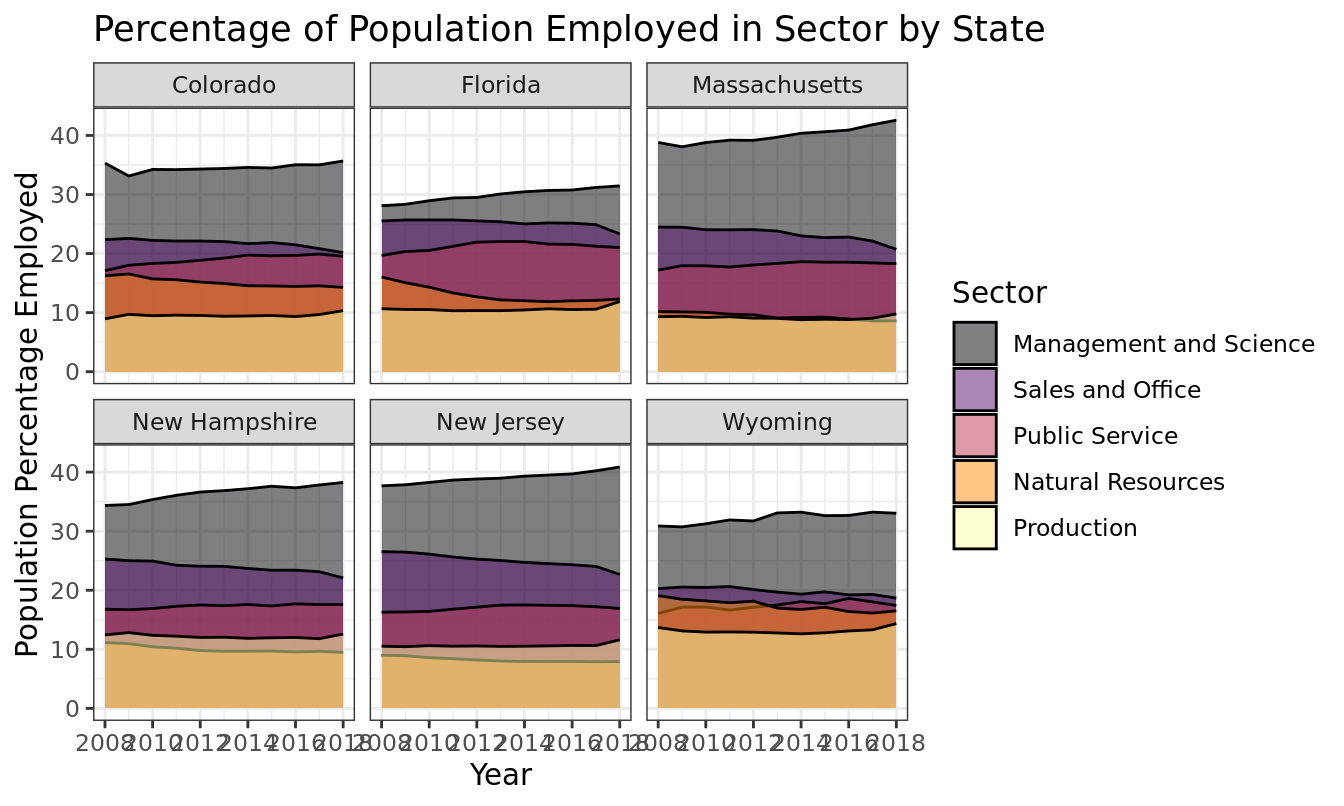
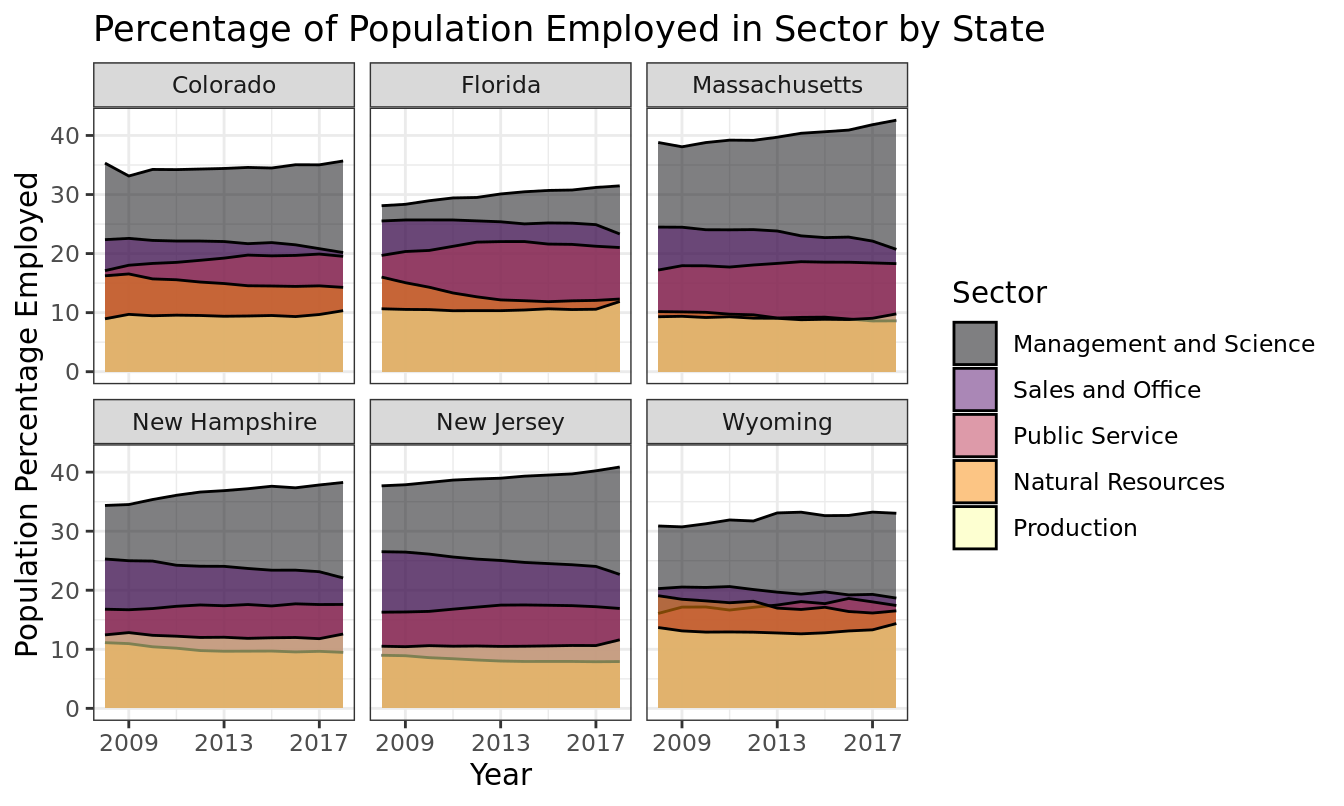
Final fixes

Changed region(s): [[0.0625, 0.8995, 0.6875, 0.9305]]

diff --git a/docs/index.html b/docs/index.html
@@ -1164,7 +1164,7 @@ override using the `.groups` argument.</code></pre>
 <span id="cb20-14"><a href="#cb20-14" aria-hidden="true" tabindex="-1"></a>  <span class="fu">ggplot</span>(<span class="fu">aes</span>(<span class="at">x =</span> study_year, <span class="at">y =</span> mean_percentage, <span class="at">fill =</span> sector_type)) <span class="sc">+</span> </span>
 <span id="cb20-15"><a href="#cb20-15" aria-hidden="true" tabindex="-1"></a>  <span class="fu">geom_density</span>(<span class="at">stat =</span> <span class="st">"identity"</span>, <span class="at">alpha =</span> <span class="fl">0.5</span>) <span class="sc">+</span></span>
 <span id="cb20-16"><a href="#cb20-16" aria-hidden="true" tabindex="-1"></a>  <span class="fu">facet_wrap</span>(<span class="sc">~</span> state_name) <span class="sc">+</span></span>
-<span id="cb20-17"><a href="#cb20-17" aria-hidden="true" tabindex="-1"></a>  <span class="fu">scale_x_continuous</span>(<span class="at">breaks =</span> <span class="fu">c</span>(<span class="dv">2008</span>, <span class="dv">2010</span>, <span class="dv">2012</span>, <span class="dv">2014</span>, <span class="dv">2016</span>, <span class="dv">2018</span>)) <span class="sc">+</span></span>
+<span id="cb20-17"><a href="#cb20-17" aria-hidden="true" tabindex="-1"></a>  <span class="fu">scale_x_continuous</span>(<span class="at">breaks =</span> <span class="fu">c</span>(<span class="dv">2009</span>, <span class="dv">2013</span>, <span class="dv">2017</span>)) <span class="sc">+</span></span>
 <span id="cb20-18"><a href="#cb20-18" aria-hidden="true" tabindex="-1"></a>  <span class="fu">labs</span>(</span>
 <span id="cb20-19"><a href="#cb20-19" aria-hidden="true" tabindex="-1"></a>    <span class="at">x =</span> <span class="st">"Year"</span>,</span>
 <span id="cb20-20"><a href="#cb20-20" aria-hidden="true" tabindex="-1"></a>    <span class="at">y =</span> <span class="st">"Population Percentage Employed"</span>,</span>
@@ -1189,15 +1189,15 @@ override using the `.groups` argument.</code></pre>
 <p><strong>Goals:</strong></p>
 <p>Particularly, the goals of our project are to 1) illustrate the relative average 4th-grade reading level in each state; 2) provide a side-by-side comparison of how much funding each state is allocating towards students relative to each other; 3) utilize predictor pruning methods to construct a linear regression model with community-level factors that are associated with the average 4th-grade reading level across the county; and 4) determine the distribution of adults across various occupational fields in states with the best 4th-grade reading levels. Each goal corresponds to a visualization or regression model.&nbsp;</p>
 <p><strong>Data Overview:</strong></p>
-<p>To achieve objectives, we integrated data from five datasets. The first dataset was <code>scores</code>, which had 6 variables and 54 observations. The variables of interest were <code>state_name</code> and <code>reading_level</code>, the average 4th-grade reading level in each given state in 2022 (state-wide achievement level). The second was <code>childcare_costs</code>, which had 61 variables and 34567 observations. <code>childcare_costs</code> offered all of our data on county-level socioeconomic factors, and we mutated various variables to be potential predictors in our linear regression model for goal #3. The <code>counties</code> dataset had 4 variables and 3144 observations and was used to merge the country-based data in <code>childcare_costs</code> with the state-based data in <code>scores</code>. The <code>expenditures</code> dataset had 6 variables and 23460 observations. From this dataset, we were interested in examining <code>inf_adj_perchild</code>, total government spending on educational resources per child adjusted for inflation.&nbsp;Our last dataset, <code>us_states</code>, there are 6 variables and 15537 observations. This dataset provides the latitude and longitude coordinates in order to create the choropleth map base of the United States for visualizations #1 and #2.</p>
+<p>To achieve objectives, we integrated data from five datasets. The first dataset was <code>scores</code>, which had 6 variables and 54 observations. The variables of interest were <code>state_name</code> and <code>reading_level</code>, the average 4th-grade reading level in each given state in 2022 (state-wide achievement level). The second was <code>childcare_costs</code>, which had 61 variables and 34567 observations. <code>childcare_costs</code> offered all of our data on county-level socioeconomic factors, and we mutated various variables to be potential predictors in our linear regression model for goal #3. The <code>counties</code> dataset had 4 variables and 3144 observations and was used to merge the country-based data in <code>childcare_costs</code> with the state-based data in <code>scores</code>. The <code>expenditures</code> dataset had 6 variables and 23460 observations. From this dataset, we were interested in examining <code>inf_adj_perchild</code>, total government spending on educational resources per child adjusted for inflation.&nbsp;Our last dataset, <code>us_states</code>, there are 6 variables and 15537 observations. This dataset provides the latitudinal and longitudinal coordinates in order to create the choropleth map base of the United States for visualizations #1 and #2.</p>
 <p>The <code>scores</code> data are from 2022, while the <code>childcare_costs</code> and <code>expenditures</code> data are from 2018 and 2016, respectively. We thought this was acceptable in the context because it is realistic for there to be a years-long delay between changes in community funding and resources and subsequent academic improvements.</p>
 <p><strong>Findings:</strong></p>
 <p>Visualization #1 achieves goal #1 through a choropleth map, which is a map that leverages differences in shading to denote the average value of a variable in distinct geographic regions. We primarily employ the <code>geom_polygon()</code> tool to do so. The map illustrates that three states, Florida, Wyoming, and Massachusetts, stood out among the rest for having superior demonstrated 4th-grade reading levels. To zoom out from this superlative factoid, it is also the case that smaller northeastern and a few midwestern states have higher reading levels. It may seem arbitrary that these three states scored above the rest in terms of reading levels, especially considering the diverse areas of the United States in which each of them is situated. However, consideration of principles learned in the KISS class, Critical Race Theory in Education, proves otherwise. Research into the breakdown of Florida’s 4th grade reading levels reveals one interesting notion: White students demonstrated consistently high reading levels, second only to Asian students (who make up a significant minority of the elementary population), whereas their other non-White counterparts scored lower, on average (“The Nation’s…”). Considering prior knowledge, the makeup of smaller northeastern states like Massachusetts or New Jersey and midwestern states like Wyoming or Colorado is also noteworthily White. Discussions in CRT have revealed the unfortunate truth that America’s education systems are upheld to be conducive to White students. According to the class-provided article “School Norms and Reforms, Critical Race Theory, and the Fairytale of Equitable Education,” white students excel on aptitude assessments like the SAT or IQ tests because they have been designed for them to do so. So, while there may be noteworthy additional circumstances that foretell academic success, as we begin analyzing predictors of achievement, it is important to first recognize race’s interplay with soon-to-be considered factors in propelling a certain demographic forward within American school systems.&nbsp;</p>
 <p>Visualization #2 fulfills goal #2 through another choropleth map. This time, each state is shaded based on its <code>inf_adj_perchild</code>. A side-by-side comparison of visualization #1 and #2 allows for preliminary conclusions on the impact of public investments into youth education and enables us to start identifying states that may have particularly cost-effective educational systems. New York, New Jersey, and Wyoming come forward as the states with the highest government spending on students. This has broad ties to visualization #1 where New Jersey and Wyoming were both in the top 5 of states in terms of <code>reading_level</code> (Notably, New York was ranked as state #37 in terms of <code>reading_level</code>, raising questions worth exploring in future research about how New York is investing in public education.</p>
-<p>Our <code>final_model</code> addresses goal #3. A foundational literature review implicates several social, psychological, and economic in the development of reading skills in elementary schoolers. Socioeconomic status has been consistently shown to influence academic success, specifically due to differing access to books, supportive services, and qualified teachers as well as due to exposure to adversity and parental distress. The structural connections between race, socioecnomic status, and long-term outcomes makes racial minority status another potential variable of interest. Along with socioeconomic status, parents’ capacity to be highly engaged and sincerely warm affects psychological health, which often underpins academic trajectories. Thus, we seek to examine whether having both, one, or no working parents affects reading skills. Finally, it is necessary to explore the role of access to both family-based and center-based child care given the proven significance of high-quality child care. We cross-reference these findings with our data to create a number of variables of interest. We constructed <code>family_poverty</code>, which was renamed from <code>pr_f</code> and gives the poverty rate in the given county and <code>minority_racial_status</code>, which is the percent of the county population that identifies as one minority racial identity or as biracial. We also developed <code>percentage_single_mother</code>, which is the number of households with single mothers, divided by the total number of <code>households</code>. We designed another variable for the ratio of households with one working parent to two working parents: <code>ratio_of_one_to_both</code>. By simply renaming, we created <code>average_center_child_care</code> and <code>average_family_child_care</code>, the average cost of center-based and family-based child care, respectively, in the given county. We first engineered a maximum additive regression model with all the possible predictors, and then, we manually performed forward selection to determine what combination of the predictors yielded a model with the lowest adjusted R2. The models were sorted based on adjusted-R2. We created a data frame with all of the models and their corresponding adjusted R2 values. We then filtered for the model with the maximum R2. We find that <code>regression_model_61</code> has the best fit and it includes the predictors <code>family_poverty</code> , <code>ratio_of_one_to_both</code>, <code>average_center_child_care</code>, <code>average_family_child_care</code>, and <code>one_parent_households</code>.</p>
-<p>Visualization #3 is rooted in goal #4. We have always been committed to creating a visualization that zooms in on states with the highest values in <code>reading_level</code>. In our literature review to determine potential community-level predictors for <code>reading_level</code>, we found that both socioeconomic status and parental attitudes contribute to <code>reading_level</code>, both of which may be reflect in parents’ occupations. Thus, we opted to explore the average distribution of occupational fields of adults across all the counties in Massachusetts, New Jersey, New Hampshire, and Wyoming, the states with the highest <code>reading_level</code> scores with inputted data for occupational percentages in <code>childcare_costs</code> in 2018— the most recent year of data collection. The original dataset included each occupational field as a separate variable and gave the percentage of adults who worked in that field for each county. We then pivoted the data so that each there was one variable for the names of the occupational fields, <code>sector_type</code>, and the associated percentage in each occupational field, <code>sector_percentage</code>. This enabled us to construct a bar graph that depicted the average percentage of the population that worked in each sector in each state. We find that in all four states of highest <code>reading_level</code>, the highest percentage of the population was employed in “Management and Science.” To go about explaining the distribution represented in this visualization, we drew upon the skill developed in the Rethinking Schools class: self-reflection. As we each examined the industries present in our hometowns, it becomes clear why there is a correlation between higher achievement and a high management and science makeup. In Noah’s hometown of Fairfax, Virginia, there is a large presence of government consulting firms and technology startups. He recalls how the confluence of these industries catalyzed his school district to become among the largest in the nation and found a magnet STEM school, Thomas Jefferson HS, now ranked the fifth best high school in the nation. Another testament to this notion is how Anushka, being from Westchester, New York, grew up surrounded by leaders of finance, medicine, and technology companies–no doubt making her school district (the 13th best in the country) what it is. Reflecting on some of our personal upbringings ultimately speaks to the data-driven fact that high achievement is associated with specific industry, making this visualization both personally and mathematically impactful.</p>
+<p>Our <code>final_model</code> addresses goal #3. A foundational literature review implicates several social, psychological, and economic in the development of reading skills in elementary schoolers. Socioeconomic status has been consistently shown to influence academic success, specifically due to differing access to books, supportive services, and qualified teachers as well as due to exposure to adversity and parental distress. The structural connections between race, socioecnomic status, and long-term outcomes makes racial minority status another potential variable of interest. Along with socioeconomic status, parents’ capacity to be highly engaged and sincerely warm affects psychological health, which often underpins academic trajectories. Thus, we seek to examine whether having both, one, or no working parents affects reading skills. Finally, it is necessary to explore the role of access to both family-based and center-based child care given the proven significance of high-quality child care. We cross-reference these findings with our data to create a number of variables of interest. We constructed <code>family_poverty</code>, which was renamed from <code>pr_f</code> and gives the poverty rate in the given county and <code>minority_racial_status</code>, which is the percent of the county population that identifies as one minority racial identity or as biracial. We also developed <code>percentage_single_mother</code>, which is the number of households with single mothers, divided by the total number of <code>households</code>. We designed another variable for the ratio of households with one working parent to two working parents: <code>ratio_of_one_to_both</code>. By simply renaming, we created <code>average_center_child_care</code> and <code>average_family_child_care</code>, the average cost of center-based and family-based child care, respectively, in the given county. We first engineered a maximum additive regression model with all the possible predictors, and then, we manually performed forward selection to determine what combination of the predictors yielded a model with the lowest adjusted R2. The models were sorted based on adjusted-R2. We created a data frame with all of the models and their corresponding adjusted R2 values. We then filtered for the model with the maximum R2. We find that <code>regression_model_61</code> has the best fit and it includes the predictors <code>family_poverty</code> , <code>ratio_of_one_to_both</code>, <code>average_center_child_care</code>, <code>average_family_child_care</code>, and <code>one_parent_households</code>. Still, the adjusted-R2 is only 0.06.</p>
+<p>Visualization #3 is rooted in goal #4. We have always been committed to creating a visualization that zooms in on states with the highest values in <code>reading_level</code>. In our literature review to determine potential community-level predictors for <code>reading_level</code>, we found that both socioeconomic status and parental attitudes contribute to <code>reading_level</code>, both of which may be reflect in parents’ occupations. Thus, we opted to explore the average distribution of occupational fields of adults across all the counties in Massachusetts, New Jersey, New Hampshire, Colorado, Florida, and Wyoming, the states with the highest <code>reading_level</code> scores with inputted data for occupational percentages in <code>childcare_costs</code> in 2018— the most recent year of data collection. The original dataset included each occupational field as a separate variable and gave the percentage of adults who worked in that field for each county. We then pivoted the data so that each there was one variable for the names of the occupational fields, <code>sector_type</code>, and the associated percentage in each occupational field, <code>sector_percentage</code>. This enabled us to construct a bar graph that depicted the average percentage of the population that worked in each sector in each state. We find that in all six states of highest <code>reading_level</code>, the highest percentage of the population was employed in “Management and Science.” To go about explaining the distribution represented in this visualization, we drew upon the skill developed in the Rethinking Schools class: self-reflection. As we each examined the industries present in our hometowns, it becomes clear why there is a correlation between higher achievement and a high management and science makeup. In Noah’s hometown of Fairfax, Virginia, there is a large presence of government consulting firms and technology startups. He recalls how the confluence of these industries catalyzed his school district to become among the largest in the nation and found a magnet STEM school, Thomas Jefferson HS, now ranked the fifth best high school in the nation. Another testament to this notion is how Anushka, being from Westchester, New York, grew up surrounded by leaders of finance, medicine, and technology companies–no doubt making her school district (the 13th best in the country) what it is. Reflecting on some of our personal upbringings ultimately speaks to the data-driven fact that high achievement is associated with specific industry, making this visualization both personally and mathematically impactful.</p>
 <p><strong>Conclusion:</strong><br>
-Overall, our conclusions illuminate opportunities for political and programmatic interventions. Visualization #1 identifies the states with the highest scores in 4th-grade reading to be Massachusetts, Florida, and Wyoming. We subsequently determine that White students are overrepresented in these best-practice states. There is then a need to ensure that school’s do not exclusively appeal to the intellectual and social tendencies associated with Whiteness. Future research should be conducted to test the efficacy and feasibility of nascent frameworks for multicultural education. Visualization #2 finds that New Jersey, New York, and Wyoming have the highest expenditures on students. More specific work needs to be done on the associations between <code>inf_adj_perchild</code> and <code>reading_level</code>. Visualization #3 finds that <code>family_poverty</code> , <code>ratio_of_one_to_both</code>, <code>average_center_child_care</code>, <code>average_family_child_care</code>, and <code>one_parent_households</code> all play a significant role in children’s educational experiences. Immediately, this analysis supports the continued development of public policies that encourage maternity and/or paternity leave as well as fund subsidized childcare programs. Furthermore, we affirm an already robust understanding of the poverty cycle; low educational achievement associated with high poverty levels will make it tough for children from low-income neighborhoods to reach economic prosperity. Visualization #3 suggests that states with high <code>reading_level</code> also have a high percentage of adults who work in “Management and Science,” fostering ideas about novel programs that create government-sponsored vocational training for adults from all communities to enter competitive fields.</p>
+Overall, our conclusions illuminate opportunities for political and programmatic interventions. Visualization #1 identifies the states with the highest scores in 4th-grade reading to be Massachusetts, Florida, and Wyoming. We subsequently determine that White students are overrepresented in these best-practice states. There is then a need to ensure that school’s do not exclusively appeal to the intellectual and social tendencies associated with Whiteness. Future research should be conducted to test the efficacy and feasibility of nascent frameworks for multicultural education. Visualization #2 finds that New Jersey, New York, and Wyoming have the highest expenditures on students. More specific work needs to be done on the associations between <code>inf_adj_perchild</code> and <code>reading_level</code>. Our regression model finds that <code>family_poverty</code> , <code>ratio_of_one_to_both</code>, <code>average_center_child_care</code>, <code>average_family_child_care</code>, and <code>one_parent_households</code> all play a significant role in children’s educational experiences. Immediately, this analysis supports the continued development of public policies that encourage maternity and/or paternity leave as well as fund subsidized childcare programs. Furthermore, we affirm an already robust understanding of the poverty cycle; low educational achievement associated with high poverty levels will make it tough for children from low-income neighborhoods to reach economic prosperity. Still, the model has a poor fit and more work must be done to understand predictors of academic achievement. Visualization #3 suggests that states with high <code>reading_level</code> also have a high percentage of adults who work in “Management and Science,” fostering ideas about novel programs that create government-sponsored vocational training for adults from all communities to enter competitive fields.</p>
 <p>Our analyses were restricted in a number of ways. First, since we only had the average 4th-grade <code>reading_level</code> per state, we were not able to take comprehensive advantage of the detailed data at the county level. We could only look at the heterogeneity between states rather than the heterogeneity within states as well. Also, we could not examine longitudinal trends; we only had scores from 2022, so we opted to use community data from 2018, the most recent year of inputted data in <code>childcare_costs</code>, thus producing an arbitrary inference concerning time-delay. Moreover, in the field of childhood education, standardized tests have persistently been delegitimized as they are not truly baseline ways to measure aptitude, potential, and achievement when other confounding variables such as disability or neurodiversity exist as we learned in our other FOCUS classes. In light of these limitations, future research should determine predictors of academic success at the county level, which will facilitate more specific conclusions and data points that can be used in the training of regression models. Additionally, interactive visualizations can be pioneered to represent changes in <code>reading_level</code> and corresponding predictors over time. Research effort should also be made to replicate these analyses but with a more holistic outcome measure, such as overall classroom functioning as reported by teachers.</p>
 </section>
 <section id="works-cited" class="level1">
